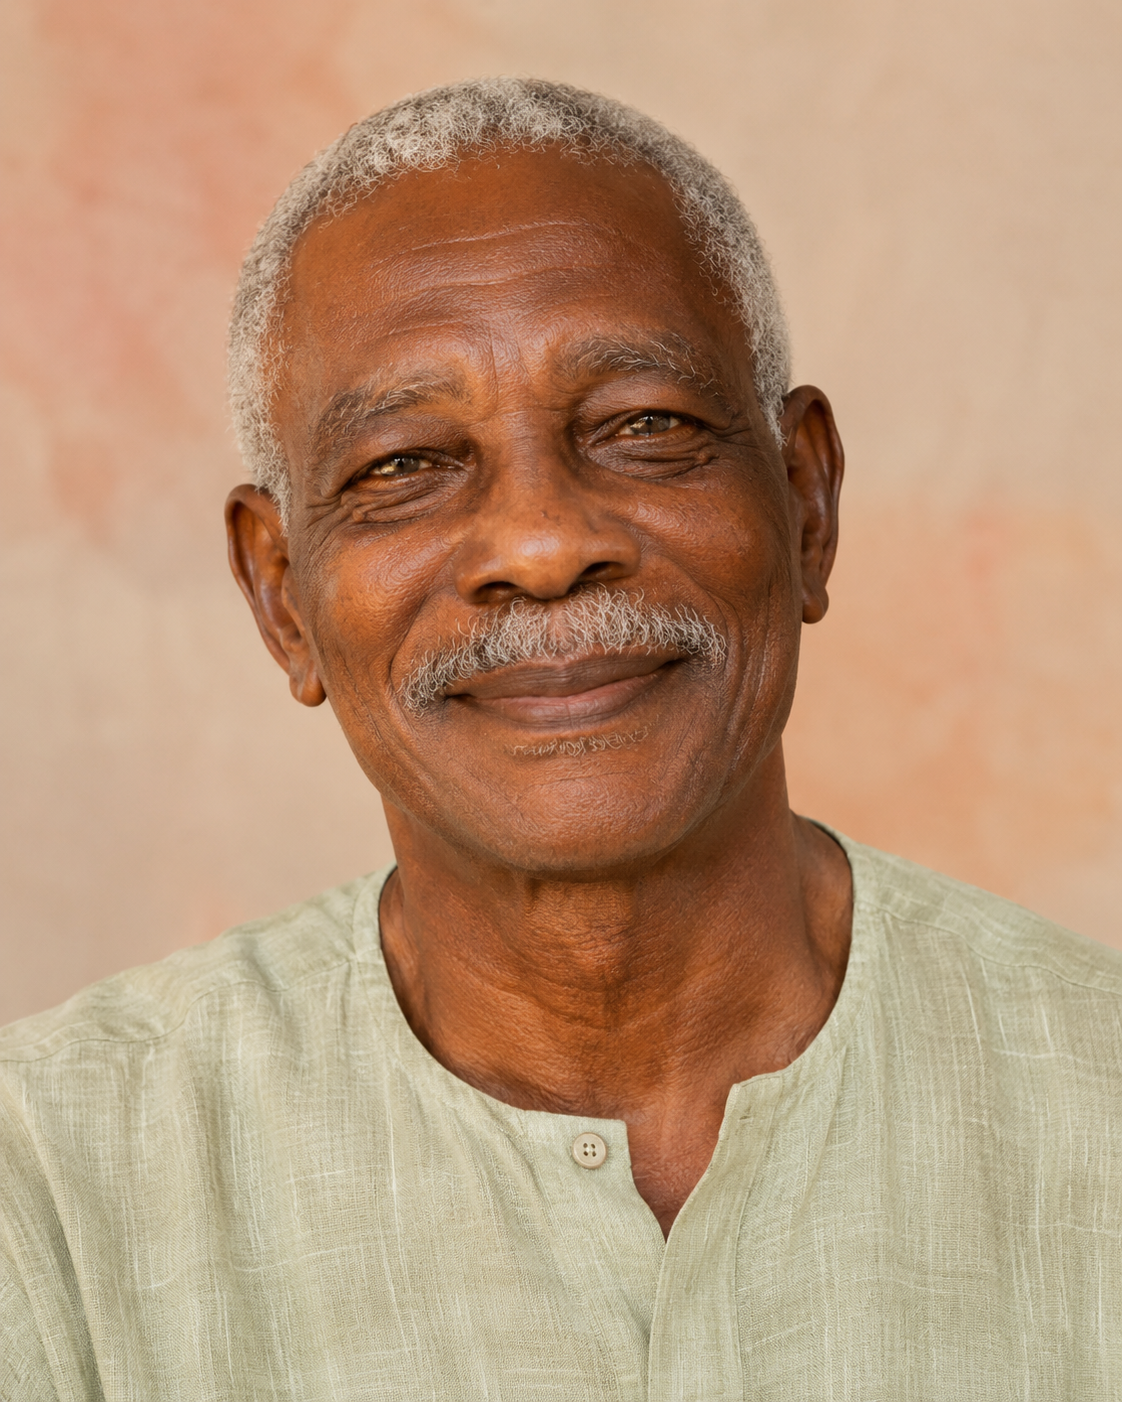
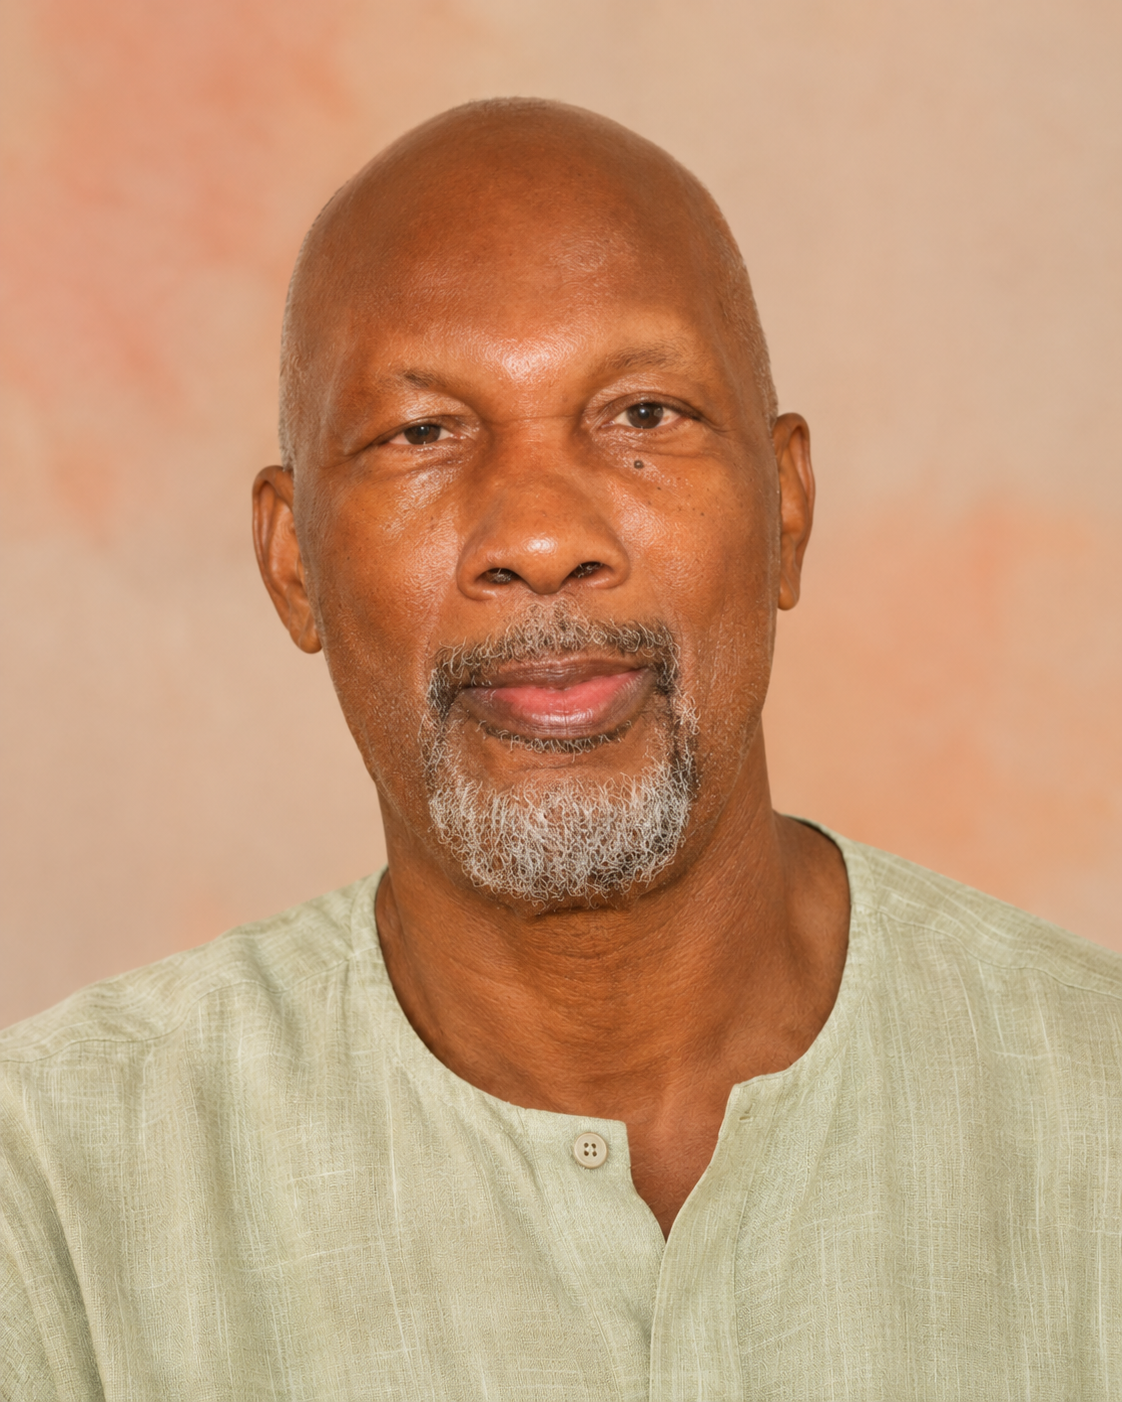
fix(biographie): retablissement du cadrage et de la hauteur de l'image portrait

diff --git a/css/pages.css b/css/pages.css
@@ -142,18 +142,21 @@
 
 .page-image {
   width: 100%;
-  height: min(68dvh, 540px);
-  max-height: 100%;
+  max-width: 480px;
+  aspect-ratio: 1 / 1;
+  height: auto;
+  max-height: calc(100dvh - 190px);
   background: var(--peach);
   border: 1px solid var(--line);
   overflow: hidden;
+  align-self: start;
 }
 
 .page-image img {
   width: 100%;
   height: 100%;
   object-fit: cover;
-  object-position: center top;
+  object-position: center 18%;
   display: block;
 }
 
